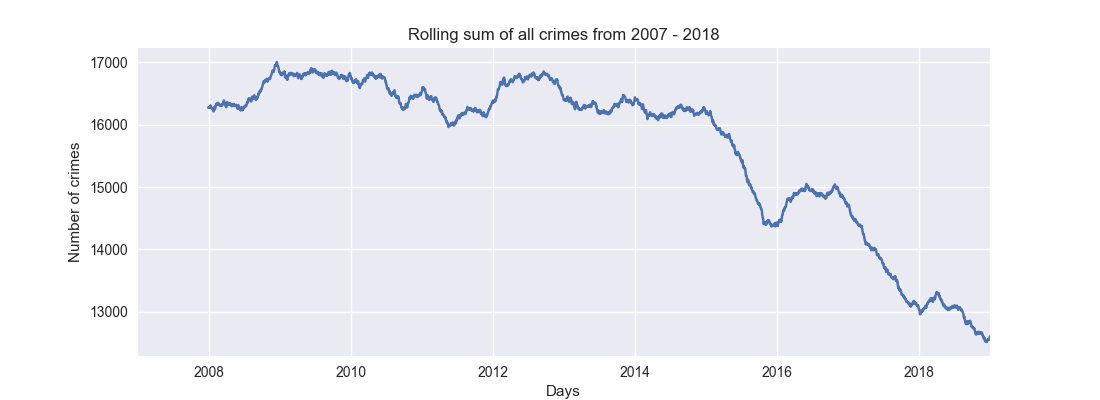
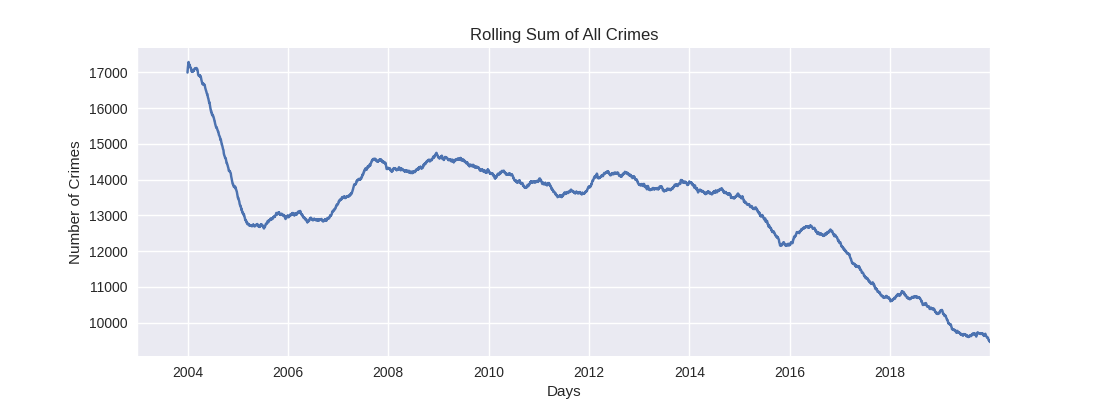
Update Statistics with missing data and clean up code

diff --git a/CS-483_Big-Data-Analytics-Capstone_2020-Spring/code/statistics/hexbin-of-crimes.py b/CS-483_Big-Data-Analytics-Capstone_2020-Spring/code/statistics/hexbin-of-crimes.py
@@ -16,27 +16,16 @@ def heatMap(df):
     #show plot
     plt.show()
 
-x = df.sample(30000) ##sampling a part of the dataset
+#x = df.sample(30000) ##sampling a part of the dataset
+x = df # We want the whole dataset not a sample
 
 df.dropna(); ## drop rows with missing data
-df.ACTUAL_DTE = pd.to_datetime(df.ACTUAL_DTE, format='%Y-%m-%d %H:%M:%S')
-df.index = pd.DatetimeIndex(df.ACTUAL_DTE)
 
 x_theft = x[x['IBR_TYPE_DESC'].isin(("Motor Vehicle Theft", "Credit Card/Automatic Teller Fraud", "Shoplifting", "Burglary/Breaking & Entering", "Robbery", "Theft from Motor Vehicle", "Theft from Building", "All Other Thefts"))]
 x_battery = x[x['IBR_TYPE_DESC'].isin(("Simple Assault", "Aggravated Assault", "Forcible Fondling", "Assault - Intimidation")) ]
 x_cd = x[x['IBR_TYPE_DESC'].isin(("Destruction/Damage/Vandalism of Property", "XXX"))]
 x_narc = x[x['IBR_TYPE_DESC'].isin(("Drug/Narcotic Violations", "XXX"))]
 x_prostitution = x[x['IBR_TYPE_DESC'].isin(("Prostitution", "XXX"))]
-
-# All Crimes barplot
-x['IBR_TYPE_DESC'].value_counts().plot.bar()
-plt.title("Crimes")
-plt.show()
-
-# Barplot of theft types
-x_theft['IBR_TYPE_DESC'].value_counts(normalize=True).plot.bar()
-plt.title("Theft Types")
-plt.show()
 
 print("Heat map over cooridantes of crimes")
 x.plot.hexbin(x='LONGITUDE', y='LATITUDE', gridsize=10)

diff --git a/CS-483_Big-Data-Analytics-Capstone_2020-Spring/code/statistics/heatmap-of-correlations.py b/CS-483_Big-Data-Analytics-Capstone_2020-Spring/code/statistics/heatmap-of-correlations.py
@@ -1,3 +1,5 @@
+df = crimes
+
 def heatMap(df):
     #Create Correlation df
     corr = df.corr()
@@ -17,15 +19,10 @@ def heatMap(df):
 ##find missing values
 ##plt.figure(figsize=(8,6))
 ##sns.heatmap(df.isnull(), cbar = False)
-df.dropna(); ## drop rows with missing data
-# convert dates to pandas datetime format
-#df.ACTUAL_DTE = pd.to_datetime(df.ACTUAL_DTE, format='%m/%d/%Y %I:%M:%S %p')
-df.ACTUAL_DTE = pd.to_datetime(df.ACTUAL_DTE, format='%Y-%m-%d %H:%M:%S')
-df.index = pd.DatetimeIndex(df.ACTUAL_DTE)
-x = df.sample(30000) ##sampling a part of the dataset
-heatMap(x) ## correlation between variables
 
-x['Primary Type'].value_counts().plot.bar()
-plt.title("Crimes")
-plt.show()
+df = df.dropna(); ## drop rows with missing data
 
+#x = df.sample(30000) ##sampling a part of the dataset
+#heatMap(x) ## correlation between variables
+
+heatMap(df) ## correlation between variables

diff --git a/CS-483_Big-Data-Analytics-Capstone_2020-Spring/code/statistics/crime-over-time-by-description.py b/CS-483_Big-Data-Analytics-Capstone_2020-Spring/code/statistics/crime-over-time-by-description.py
@@ -1,0 +1,13 @@
+# Crime over time (by type)
+
+# This is very resource intensive to run
+crimes_count_date = crimes.pivot_table('P_INCID_NO', aggfunc=np.size, columns='IBR_TYPE_DESC', index=crimes.index, fill_value=0)
+crimes_count_date.index = pd.DatetimeIndex(crimes_count_date.index)
+plo = crimes_count_date.rolling(365).sum().plot(figsize=(12, 30), subplots=True, layout=(-1, 3), sharex=False, sharey=False)
+
+plt.figure(figsize=(11,4))
+crimes_count_date.resample('D').size().rolling(365).sum().plot()
+plt.title('Rolling sum of all crimes from 2007 - 2018')
+plt.ylabel('Number of crimes')
+plt.xlabel('Days')
+plt.show()

diff --git a/CS-483_Big-Data-Analytics-Capstone_2020-Spring/code/statistics/crime-over-time-by-type.py b/CS-483_Big-Data-Analytics-Capstone_2020-Spring/code/statistics/crime-over-time-by-type.py
@@ -1,0 +1,13 @@
+# Crime over time (by type)
+
+# This is very resource intensive to run
+crimes_count_date = crimes.pivot_table('P_INCID_NO', aggfunc=np.size, columns='IBR_TYPE', index=crimes.index, fill_value=0)
+crimes_count_date.index = pd.DatetimeIndex(crimes_count_date.index)
+plo = crimes_count_date.rolling(365).sum().plot(figsize=(12, 30), subplots=True, layout=(-1, 3), sharex=False, sharey=False)
+
+plt.figure(figsize=(11,4))
+crimes_count_date.resample('D').size().rolling(365).sum().plot()
+plt.title('Rolling sum of all crimes from 2007 - 2018')
+plt.ylabel('Number of crimes')
+plt.xlabel('Days')
+plt.show()

diff --git a/CS-483_Big-Data-Analytics-Capstone_2020-Spring/code/statistics/top-10-streets-for-crime.py b/CS-483_Big-Data-Analytics-Capstone_2020-Spring/code/statistics/top-10-streets-for-crime.py
@@ -1,7 +1,7 @@
-crimes = crimes.dropna()
+df = crimes.dropna()
 df = crimes.drop(columns=['Unnamed: 0', 'P_INCID_NO', 'IBR_TYPE'], axis = 1)
 
 # Plot by location
 plt.figure(figsize = (15, 10))
-sns.countplot(y= 'PRIMARY_STREET_NAME', data = df, order = df['PRIMARY_STREET_NAME'].value_counts().iloc[:10].index)
+sns.countplot(y= 'PRIMARY_STREET_NAME', data = df, order = df['PRIMARY_STREET_NAME'].value_counts().iloc[:10].index).set_title("Crimes per street")
 plt.show()

diff --git a/CS-483_Big-Data-Analytics-Capstone_2020-Spring/code/statistics/basic-dataset-information.py b/CS-483_Big-Data-Analytics-Capstone_2020-Spring/code/statistics/basic-dataset-information.py
@@ -8,4 +8,4 @@ pd.value_counts(df['PRIMARY_STREET_NAME'])[:10]
 pd.value_counts(df['IBR_TYPE_DESC'])[:10]
 
 # Print Top 10 Addresses for Crime
-pd.value_counts(df['PRIMARY_STREET_NUM'].astype(str) + df['PRIMARY_STREET_NAME'])[:10]
+pd.value_counts(df['PRIMARY_STREET_NUM'].astype(str) + ' ' + df['PRIMARY_STREET_NAME'].astype(str))[:10]

diff --git a/CS-483_Big-Data-Analytics-Capstone_2020-Spring/code/statistics/crime-over-time.py b/CS-483_Big-Data-Analytics-Capstone_2020-Spring/code/statistics/crime-over-time.py
@@ -3,8 +3,8 @@
 # Crime over time
 plt.figure(figsize=(11,4))
 crimes.resample('D').size().rolling(365).sum().plot()
-plt.title('Rolling sum of all crimes from 2007 - 2018')
-plt.ylabel('Number of crimes')
+plt.title('Rolling Sum of All Crimes')
+plt.ylabel('Number of Crimes')
 plt.xlabel('Days')
 plt.show()
 

diff --git a/CS-483_Big-Data-Analytics-Capstone_2020-Spring/code/statistics/crime-type-bar.py b/CS-483_Big-Data-Analytics-Capstone_2020-Spring/code/statistics/crime-type-bar.py
@@ -1,0 +1,11 @@
+df = crimes
+
+df = df.dropna(); ## drop rows with missing data
+
+#x = df.sample(30000) ##sampling a part of the dataset
+#x['IBR_TYPE_DESC'].value_counts().plot.bar()
+
+df['IBR_TYPE_DESC'].value_counts().plot.bar()
+
+plt.title("Crimes")
+plt.show()

diff --git a/CS-483_Big-Data-Analytics-Capstone_2020-Spring/code/statistics/view-null-values.py b/CS-483_Big-Data-Analytics-Capstone_2020-Spring/code/statistics/view-null-values.py
@@ -1,3 +1,3 @@
 plt.figure(figsize=(10,7))
-sns.heatmap(crimes.isnull(), cbar = False, cmap = 'viridis')
+sns.heatmap(crimes.isnull(), cbar = False, cmap = 'viridis').set_title("Null Values Visualized")
 plt.show()
